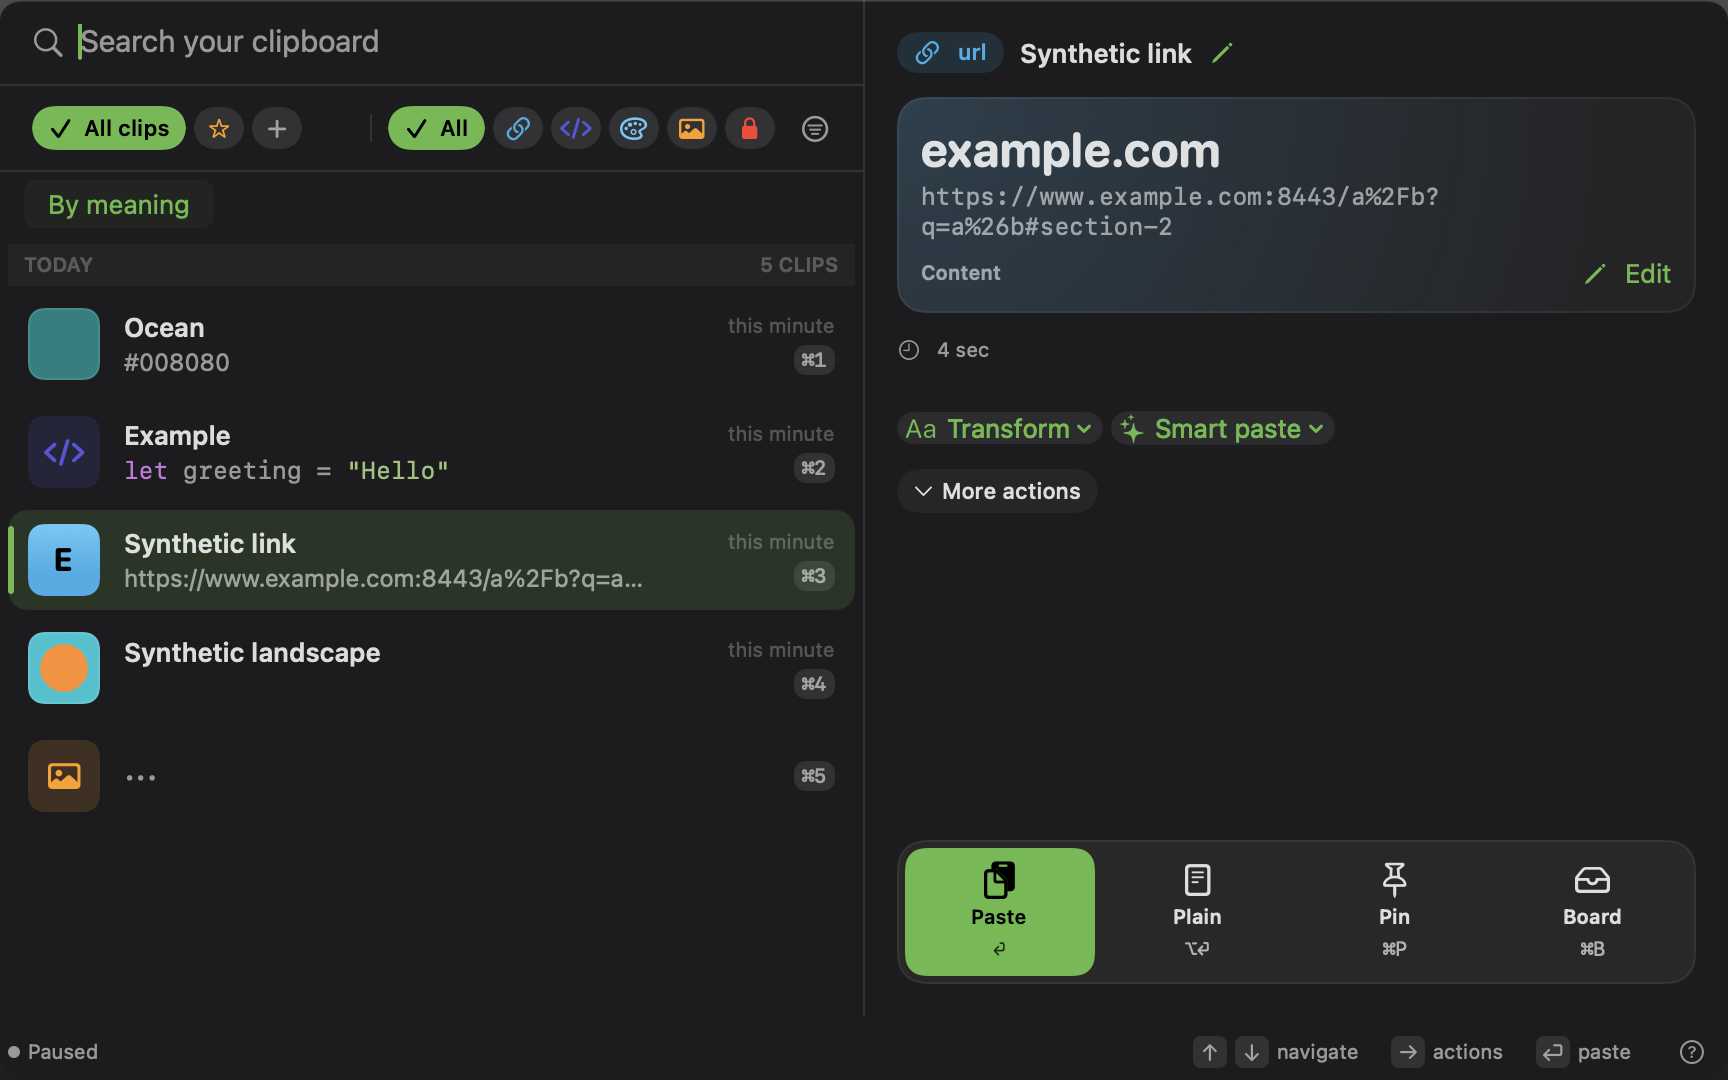
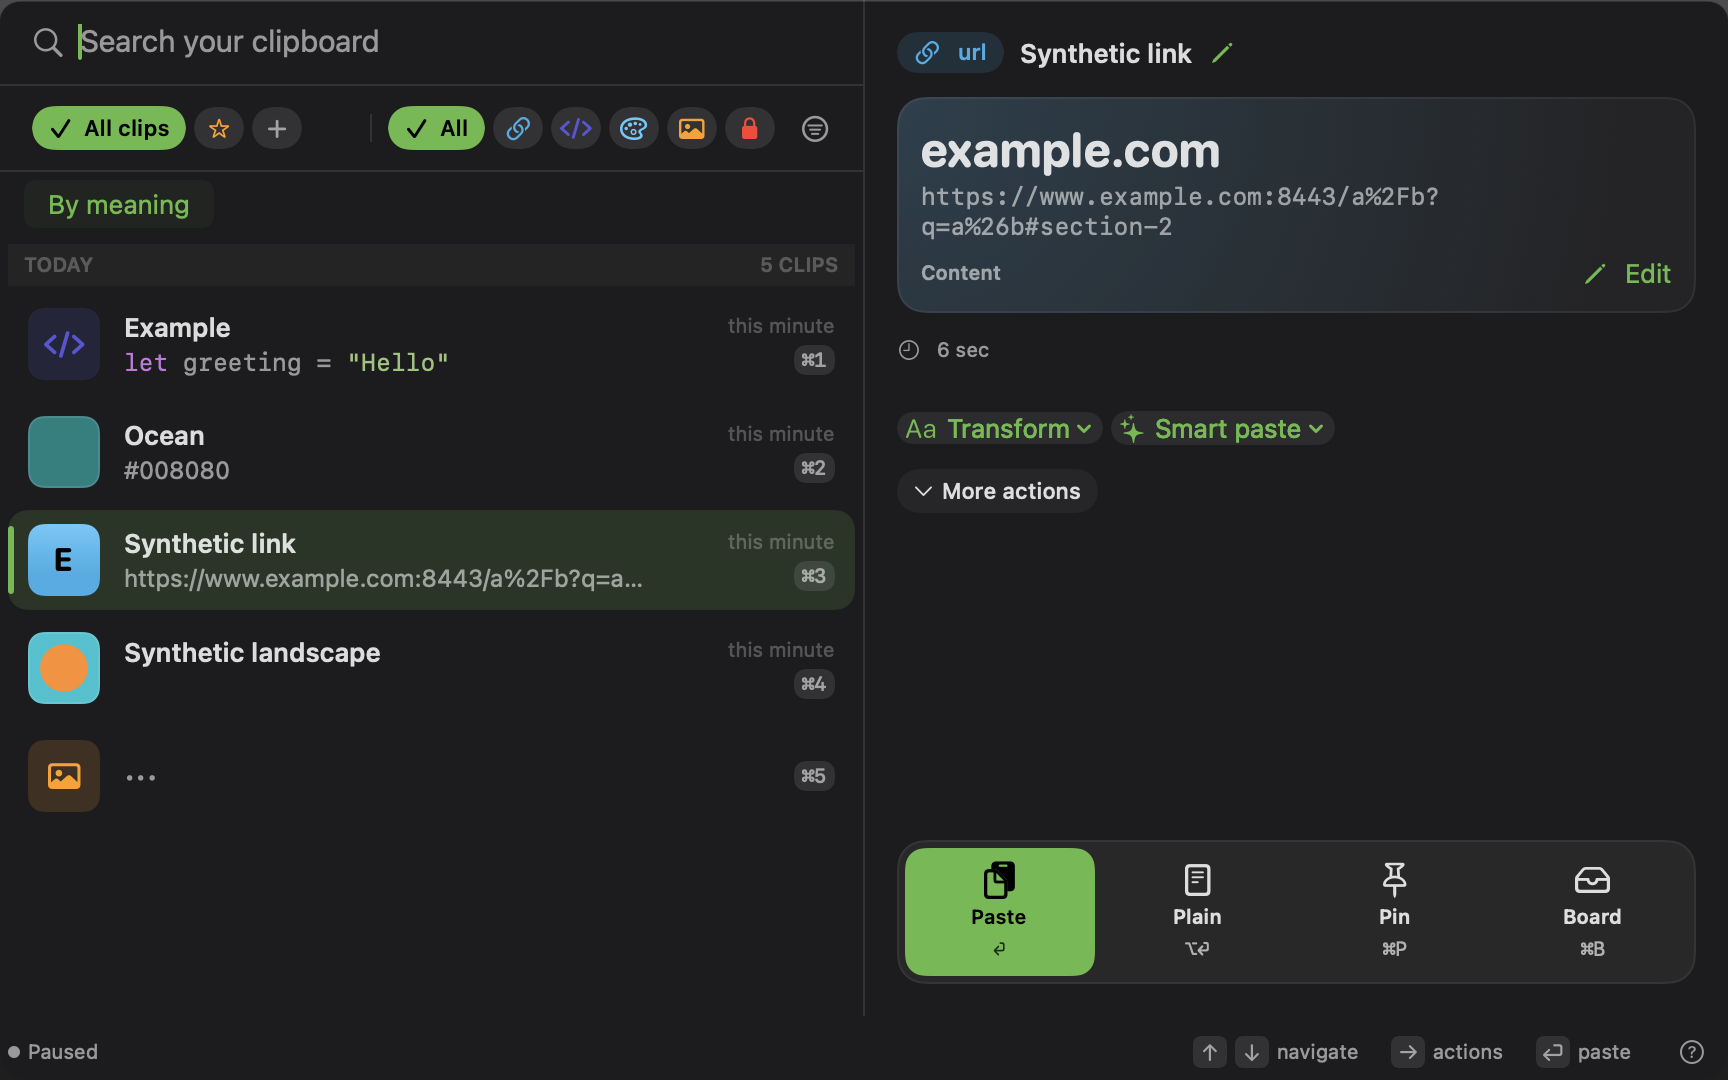
test(design): deterministic seed order and chip snapshots at three text sizes (GC-V5-6)
- The visual-library and peek-link seeds run concurrently and stamped
  `.now`, so Example and Ocean swapped places between runs and the panel
  baselines could not be compared across runs. The seeds now use fixed
  offsets: Example, Ocean, Synthetic link, Synthetic landscape, then the
  protected row.
- DesignV4SnapshotUITests adds the link peek at Small and Large text, so
  the 11 pt chips are covered at 9.9 and 12.65 pt too.
- Baselines re-recorded; an independent `make test-snapshots` run then
  matched all 14.

Changed region(s): [[0.0, 0.275, 0.25, 0.4583], [0.2188, 0.3361, 0.25, 0.3667]]

diff --git a/Apps/GanchoMac/AppModel+UITestSeeds.swift b/Apps/GanchoMac/AppModel+UITestSeeds.swift
@@ -224,22 +224,27 @@ extension AppModel {
                     await refreshRecents()
                     return
                 }
+                // Seconds apart, so the order holds against the concurrent link seed.
+                let now = Date()
                 for item in [
                     ClipItem(
-                        kind: .image, title: "Synthetic landscape", contentHash: "library-image"),
+                        createdAt: now.addingTimeInterval(-3), kind: .image,
+                        title: "Synthetic landscape", contentHash: "library-image"),
                     ClipItem(
-                        kind: .image, title: "Hidden fixture title",
-                        contentHash: "library-protected", isSensitive: true)
+                        createdAt: now.addingTimeInterval(-4), kind: .image,
+                        title: "Hidden fixture title", contentHash: "library-protected",
+                        isSensitive: true)
                 ] {
                     _ = try? await fullStore.insert(
                         item, content: .binary(data: data, typeIdentifier: "public.png"))
                 }
                 let color = ClipItem(
-                    kind: .color, title: "Ocean", preview: "#008080", contentHash: "library-color")
+                    createdAt: now.addingTimeInterval(-1), kind: .color, title: "Ocean",
+                    preview: "#008080", contentHash: "library-color")
                 _ = try? await fullStore.insert(color, content: .text("#008080"))
                 let code = ClipItem(
-                    kind: .code, title: "Example", preview: "let greeting = \"Hello\"",
-                    contentHash: "library-code")
+                    createdAt: now, kind: .code, title: "Example",
+                    preview: "let greeting = \"Hello\"", contentHash: "library-code")
                 _ = try? await fullStore.insert(code, content: .text(code.preview))
                 await refreshRecents()
             }
@@ -255,8 +260,10 @@ extension AppModel {
             else { return nil }
             return Task {
                 let url = "https://www.example.com:8443/a%2Fb?q=a%26b#section-2"
+                // Between the visual-library seed's Ocean and landscape rows.
                 let item = ClipItem(
-                    kind: .url, title: "Synthetic link", preview: url, contentHash: "peek-link")
+                    createdAt: Date().addingTimeInterval(-2), kind: .url, title: "Synthetic link",
+                    preview: url, contentHash: "peek-link")
                 _ = try? await fullStore.insert(item, content: .text(url))
                 await refreshRecents()
             }

diff --git a/Tests/GanchoUITests/DesignV4SnapshotUITests.swift b/Tests/GanchoUITests/DesignV4SnapshotUITests.swift
@@ -105,7 +105,16 @@ final class DesignV4SnapshotUITests: XCTestCase {
         try panel(appearance: "dark")
     }
 
-    @MainActor private func panel(appearance: String) throws {
+    /// The 11 pt chips at the two other Text size steps (9.9 and 12.65 pt).
+    @MainActor func testPanelLinkPeekSmallText() throws {
+        try panel(appearance: "light", textSize: "small")
+    }
+
+    @MainActor func testPanelLinkPeekLargeText() throws {
+        try panel(appearance: "light", textSize: "large")
+    }
+
+    @MainActor private func panel(appearance: String, textSize: String = "standard") throws {
         let app = GanchoUITestApplication()
         app.launchArguments = [
             "-open-panel-on-launch", "-use-in-process-status-item", "-use-temp-durable-store",
@@ -113,8 +122,8 @@ final class DesignV4SnapshotUITests: XCTestCase {
             "-start-capture-paused", "-suppress-paused-notice-for-ui-test",
             "-opaque-panel-for-ui-test", "-place-panel-for-ui-test",
             "-suppress-storage-notice-for-ui-test", "-AppleLanguages", "(en)",
-            "-appearance", appearance, "-ui-test-snapshot-dir", renders.path,
-            "-ui-test-defaults-suite",
+            "-appearance", appearance, "-panel-text-size", textSize,
+            "-ui-test-snapshot-dir", renders.path, "-ui-test-defaults-suite",
             "com.johnny4young.gancho.uitests.snapshots.\(UUID().uuidString)"
         ]
         app.launch()
@@ -129,7 +138,8 @@ final class DesignV4SnapshotUITests: XCTestCase {
         RunLoop.current.run(until: Date().addingTimeInterval(1.5))
         try DesignSnapshot.save(
             DesignSnapshot.renderWindow(titled: "Gancho", named: "panel", in: renders),
-            named: "panel-link-peek-\(appearance)")
+            named: textSize == "standard"
+                ? "panel-link-peek-\(appearance)" : "panel-link-peek-\(textSize)-text")
     }
 
     // MARK: Settings › Privacy and Privacy Center — neutral buttons, dark ink hero.
